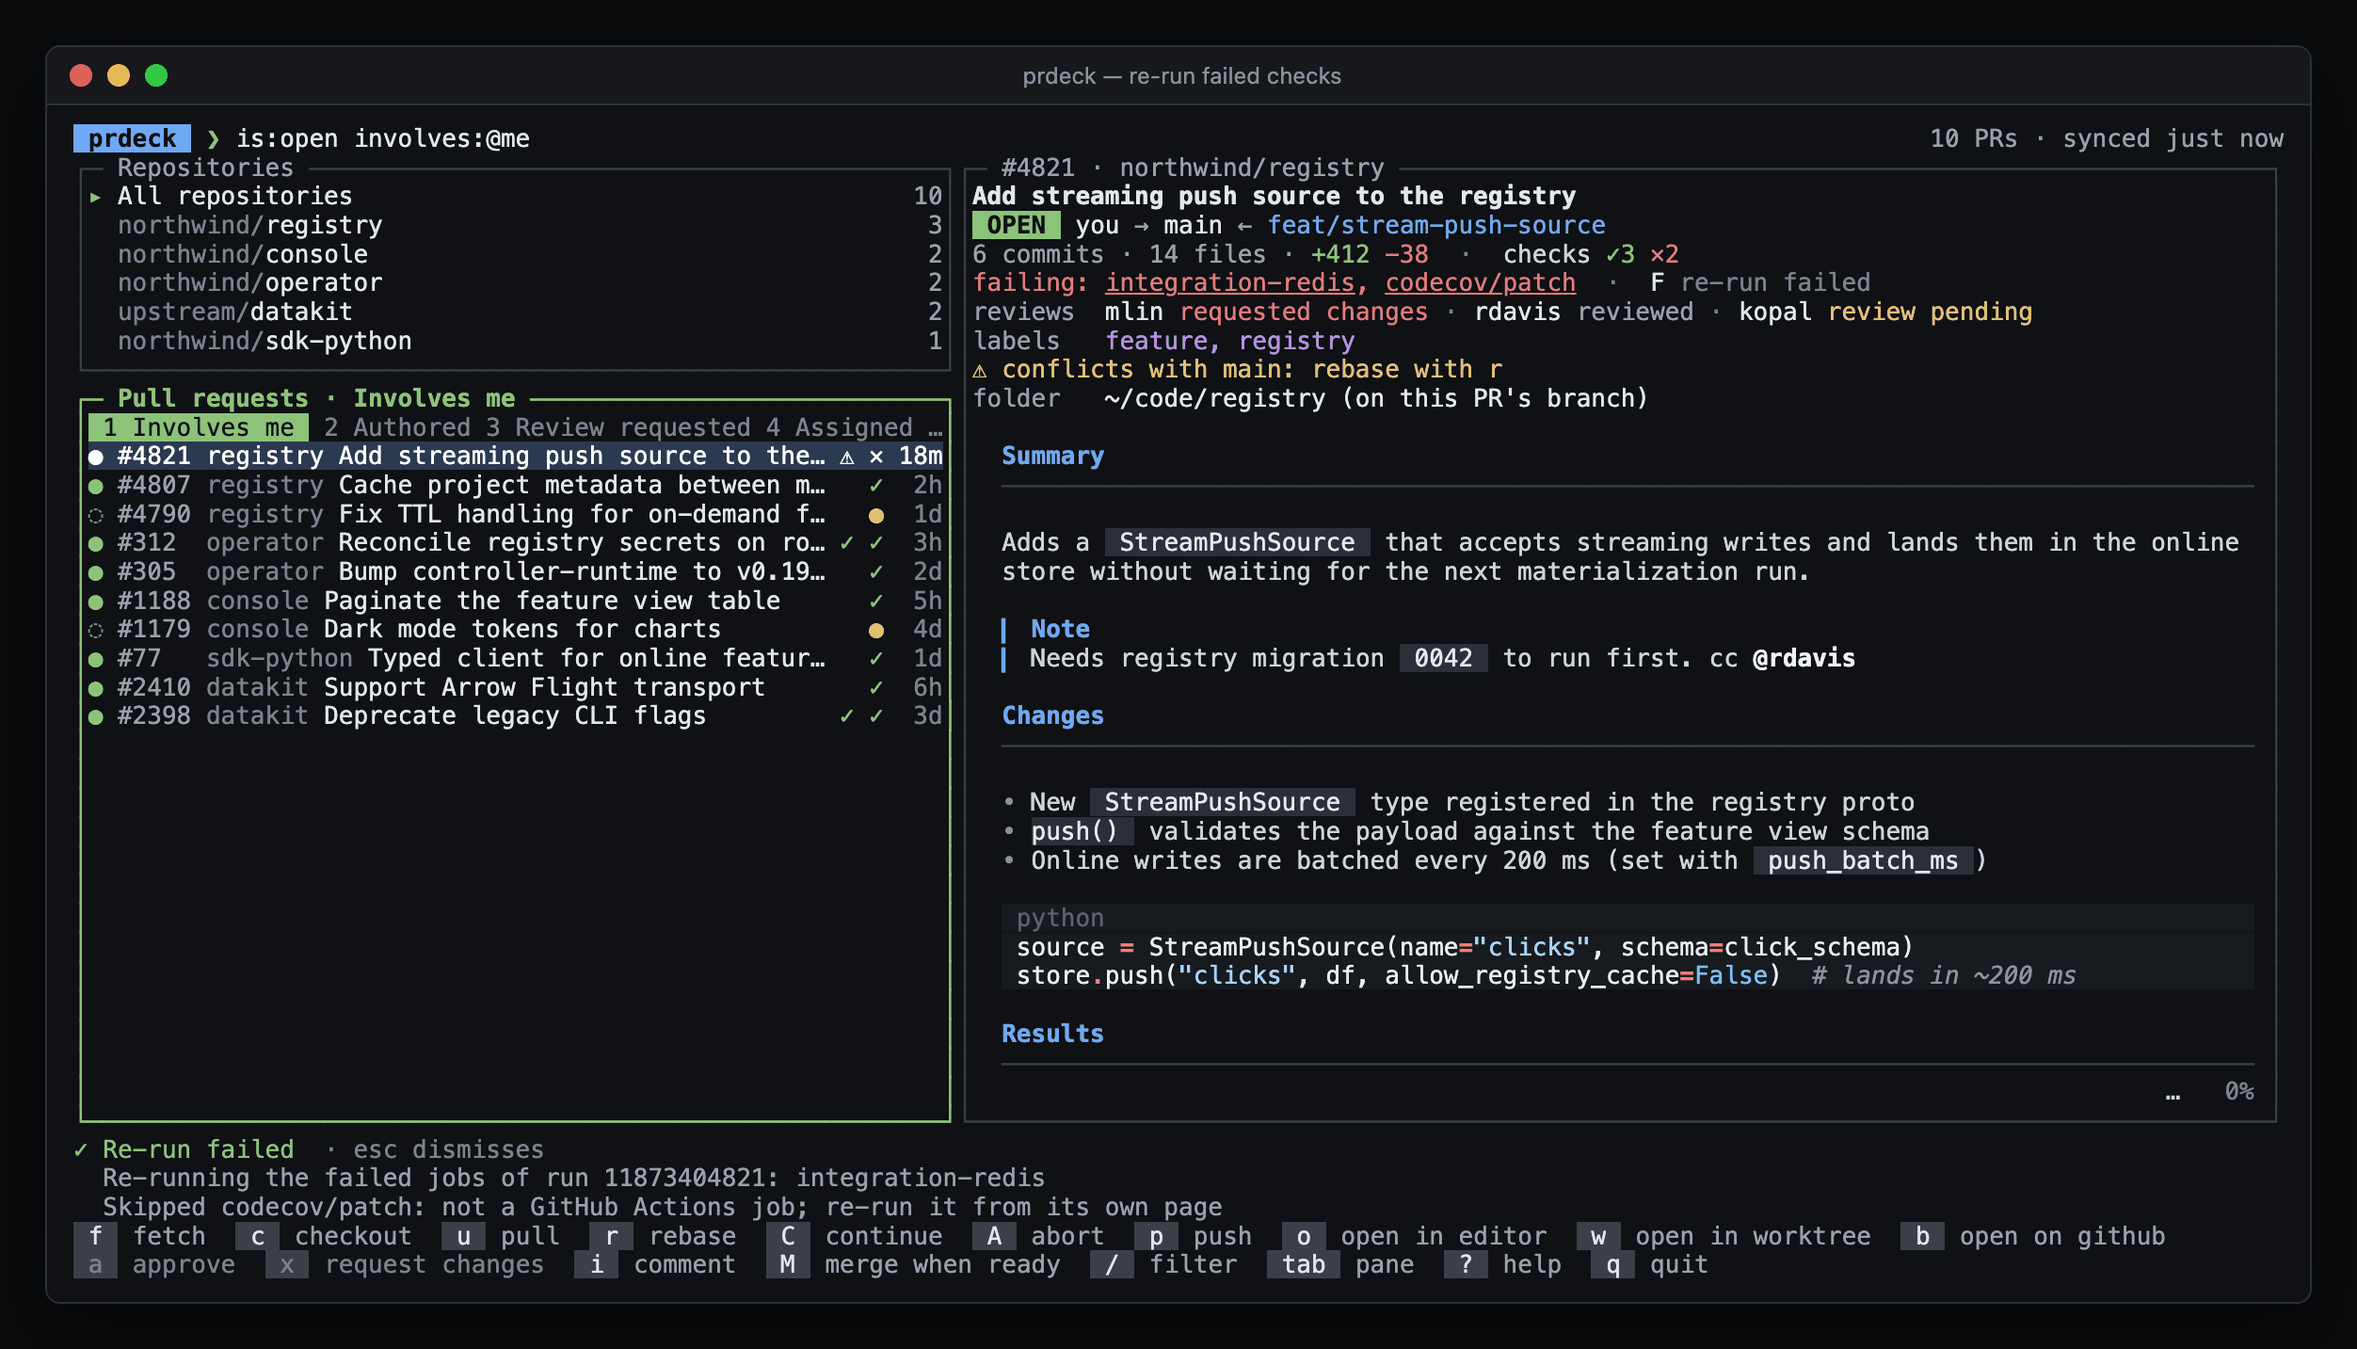
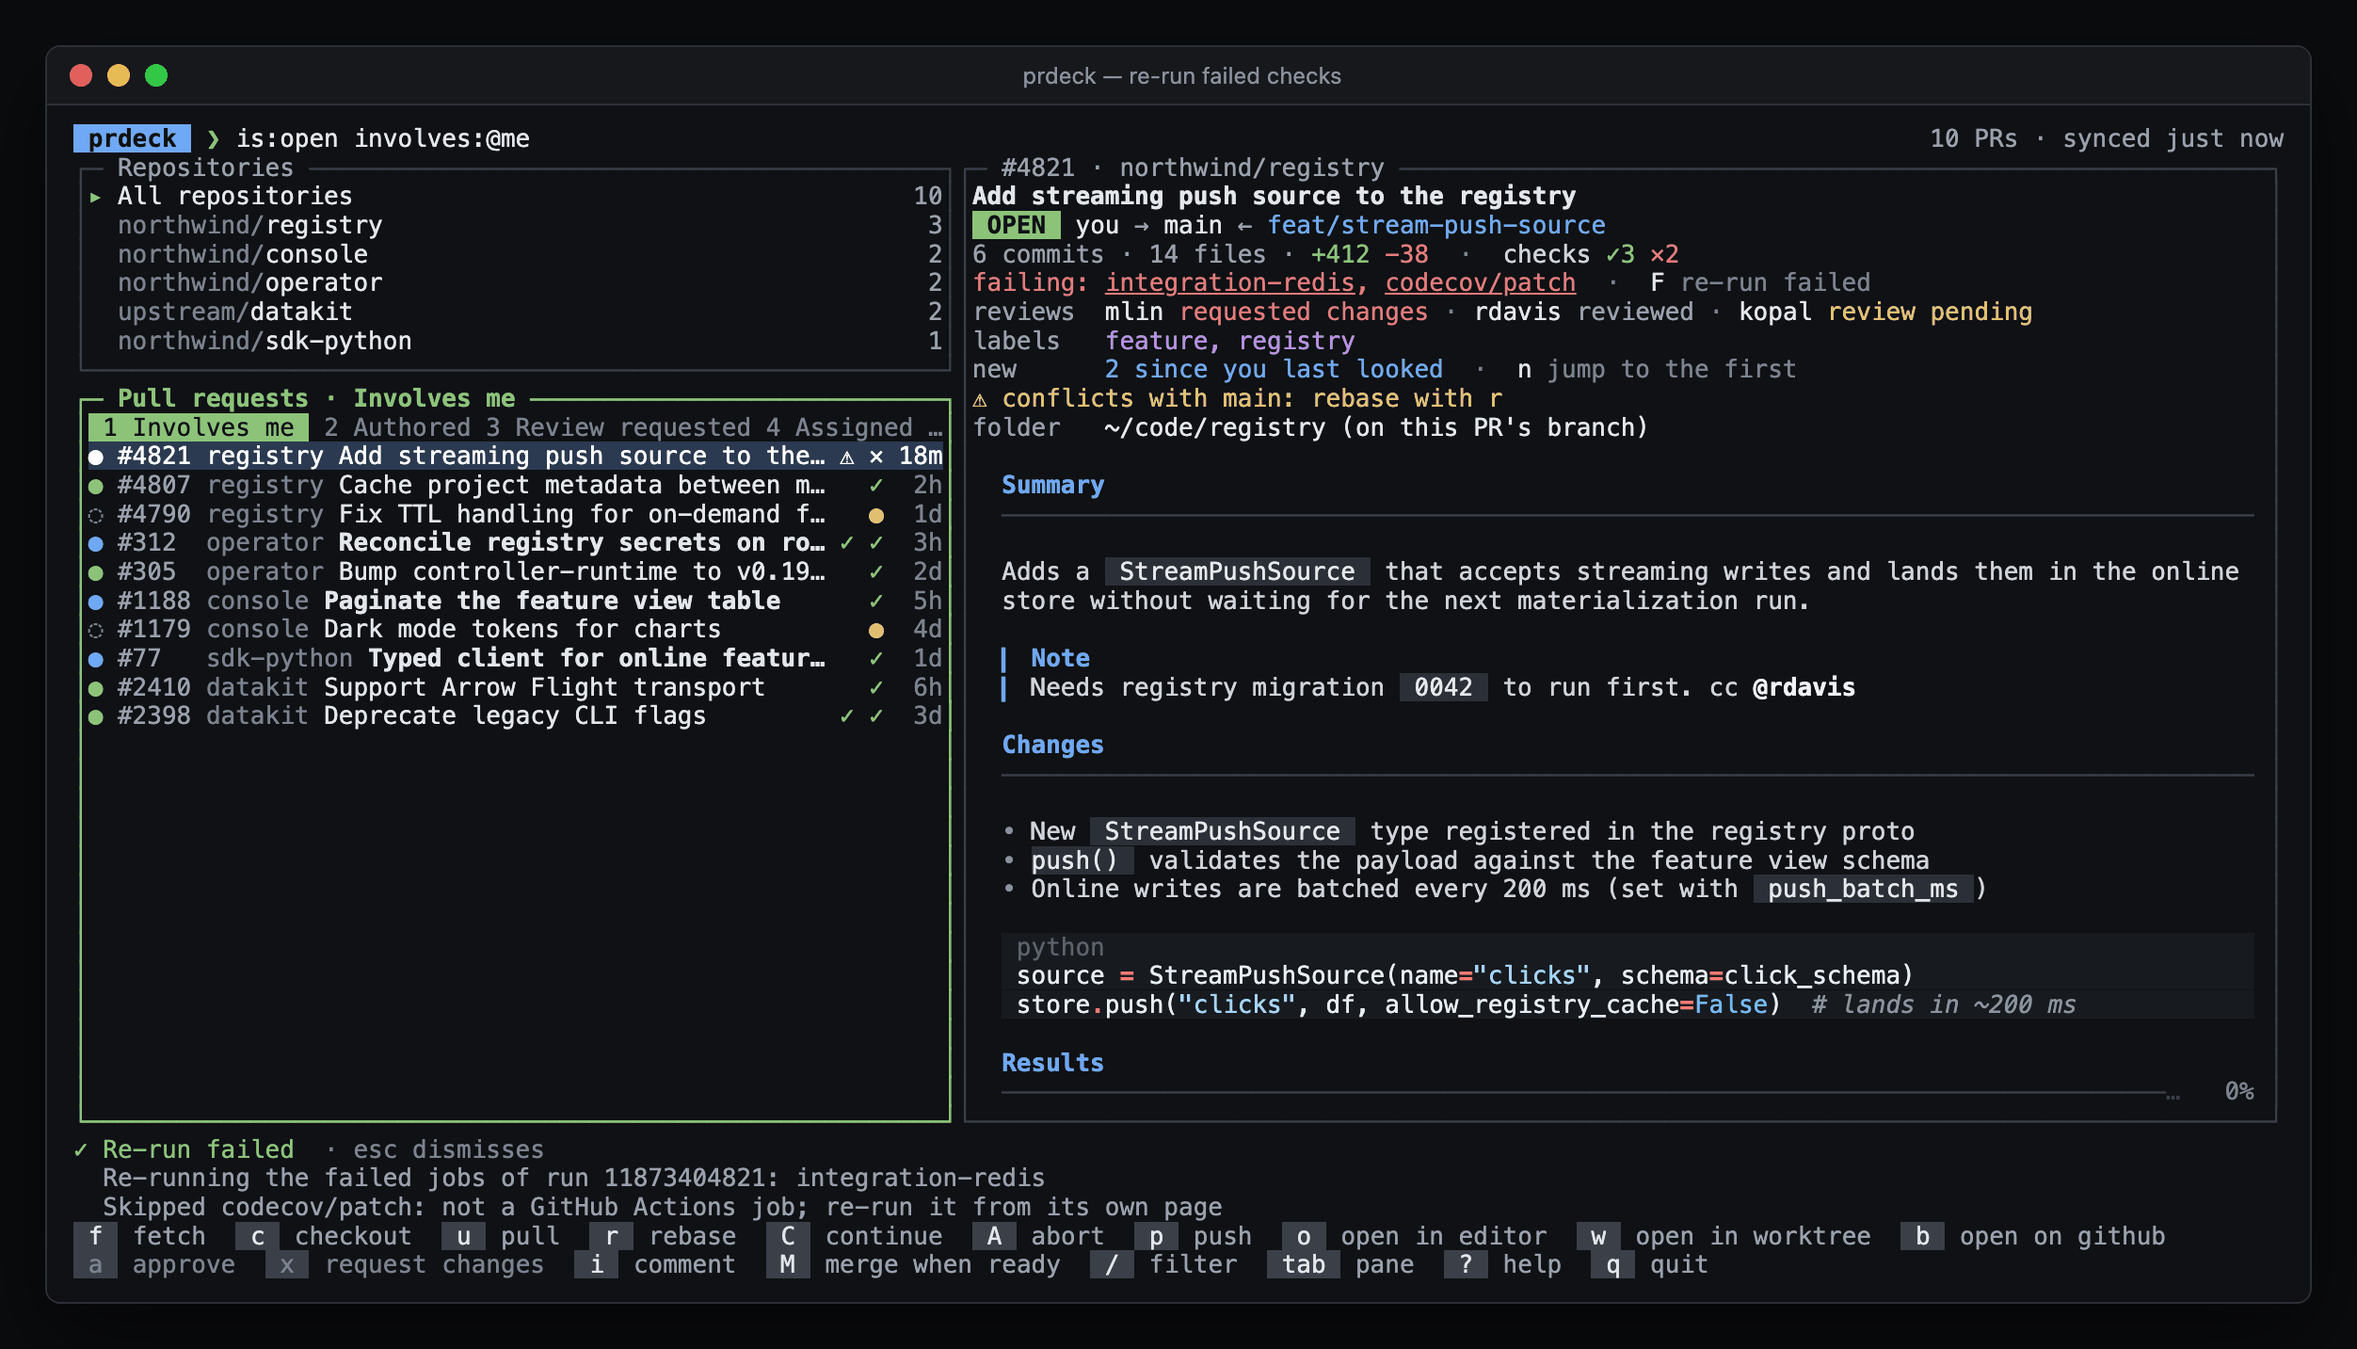
Document unread PRs and what is new since you last looked
- README: the dot and bold title, the new tags and n in both apps, the
  shared cache, the first-run rule, and the new snapshot state.
- ADR 0018: seen marks in the cache in GitHub's time, opening is showing,
  the first-run baseline and 30-day floor, how your own actions and two
  apps on one file are handled, and why not GitHub's notifications.
- Screenshots: unread.png from the capture script (which now takes it),
  desktop-unread.png and desktop-new.png; the terminal shots are taken
  again, since the demo list and ? help changed.

diff --git a/README.md b/README.md
@@ -20,8 +20,8 @@ A dashboard for the pull requests you're involved in, in the terminal and on the
 | **Output**: conflicts show right away; fix them, then `C` | **`?` help**: every key and the command it runs |
 | ![Re-run failed](docs/screenshots/rerun.png) | ![Approve](docs/screenshots/approve.png) |
 | **`F` re-run failed**: failing checks link to their logs; only the failed jobs run again | **`a` approve**: shows what it sends, then approves on `enter` |
-| ![Merge when ready](docs/screenshots/merge.png) | |
-| **`M` merge when ready**: auto-merge on, so GitHub merges once checks and reviews pass | |
+| ![Merge when ready](docs/screenshots/merge.png) | ![New since you last looked](docs/screenshots/unread.png) |
+| **`M` merge when ready**: auto-merge on, so GitHub merges once checks and reviews pass | **`n` what's new**: unread PRs are blue and bold; new comments are tagged, `n` jumps to the first |
 
 Screenshots use sample data from `prdeck demo`. Regenerate them with `scripts/screenshots/capture.sh`.
 
@@ -51,6 +51,7 @@ prdeck config init         # write a starter config
 | `1`–`9` | Switch filter (Involves me, Authored, Review requested, Assigned, Mentions) |
 | `/` | Filter palette: pick a filter or type any qualifier (`label:bug repo:org/x`) |
 | `R` | Refresh now (it also refreshes every 2 minutes) |
+| `n` | Jump to the first comment, review or reply that is new since you last opened the PR |
 | `f` `c` `u` | Fetch, check out the PR's branch, pull |
 | `r` `C` `A` | Rebase on the base branch, continue, abort |
 | `p` | Push with `--force-with-lease` |
@@ -77,6 +78,8 @@ PR descriptions and comments render like on GitHub, inside the pane:
 **Failing checks** are listed under the PR's title, each name a link to its log (hold ⌘ to click with mouse support on). `F` re-runs only the failed jobs of each failed GitHub Actions run, with your gh login; checks from other CI services, such as Codecov, are skipped and named, since they re-run from their own page.
 
 **Review and merge** with your gh login, no clone needed: `a` approves, `x` asks what should change and requests changes, `i` asks for a comment and posts it. `M` (merge when ready) turns on GitHub's auto-merge, so GitHub merges once checks and reviews pass, with the merge method GitHub's own button starts with (your last used one the repo allows). A PR that is ready already is merged at once. A repo that does not allow auto-merge, conflicts, or checks that fail but are not required, are explained instead; when GitHub refuses, its own words are shown in full. The PR view then shows the new review, comment or `auto-merge on`. On your own PRs, Approve and Request changes are dimmed in the key bar.
+
+**What's new since you last looked.** A PR updated since you last opened it has a blue dot and a bold title in the list. Opening it (selecting it is enough) clears that, and the PR view says how many comments, reviews and replies came in since your last visit, each tagged `new`; `n` jumps to the first. Your own comments are never new, and what you do from prdeck does not make your PR unread. Both apps keep this in the same cache file, so a PR opened on the desktop shows as read in the terminal on its next refresh. The first run counts everything listed as seen.
 
 With mouse support on, hold Option (or Shift, depending on your terminal) to select text. Set `ui.mouse: false` to turn it off.
 
@@ -116,6 +119,8 @@ The same PRs and commands in a native window, built with [GPUI](https://www.gpui
 | **Checks**: click one to open its log | **Re-run failed**: only the failed jobs, with your gh login |
 | ![Merge when ready](docs/screenshots/desktop-merge.png) | ![Auto-merge on](docs/screenshots/desktop-automerge.png) |
 | **Merge when ready** next to Approve; asks first | **Auto-merge on**: GitHub merges once checks and reviews pass |
+| ![Unread PRs and what is new](docs/screenshots/desktop-unread.png) | ![Jump to first new](docs/screenshots/desktop-new.png) |
+| **Unread**: a dot on PRs that changed since you last looked; the conversation says how many are new | **Jump to first new** (or `n`): what came in since is tagged New |
 
 - **PR text like github.com**: images (your GitHub login is used for GitHub-hosted ones), `<img width>`, `<details>`, tables of screenshots side by side, syntax-highlighted code, `[!NOTE]`/`[!WARNING]` boxes, emoji and linked @mentions. Text is selectable.
 - **Comment and review**: a reply box at the end of every conversation (Write / Preview) with Comment, Approve and Request changes, and Reply on each code thread. Drafts are kept per PR. `⌘⇧C`, the Review button, or the `a` `x` `i` keys jump there; `⌘↵` comments.
@@ -123,6 +128,7 @@ The same PRs and commands in a native window, built with [GPUI](https://www.gpui
 - **Diffs**: click a commit to see what it changed (Previous / Next steps through them), or open Files changed for every file's diff with line numbers. Big PRs open the first ~1,500 lines and keep the rest one click away.
 - **Inline review**: click a line number in Files changed to comment on that line, or drag across line numbers (or Shift-click) to comment on several. The comment box can copy the selected lines or turn them into a suggested change. Add a single comment, or start a review: comments stay pending under their lines until you Submit review, Approve or Request changes, and go to GitHub together. Existing review threads show at their lines with Reply.
 - **Checks**: every check opens its log in the browser; the side panel lists the first few failing ones. When CI failed, **Re-run failed** (or `F`) re-runs only the failed GitHub Actions jobs.
+- **What's new**: a blue dot and a bold title on PRs updated since you last opened them, in either app. In the conversation, comments, reviews and replies from others since your last visit are tagged New, and a bar at the top counts them, with Jump to first new (or `n`).
 - **Profile photos** from GitHub next to every author and reviewer.
 - **Resizable panes**: drag the edges of the sidebar, the repositories list and the PR's side panel. Sizes are remembered.
 - **First-run setup** signs you in with GitHub's device code in the browser (via the GitHub CLI, so PR Deck never stores a token), finds the folders that hold your clones, and picks your editor. It shows on first launch or when signed out, and from PR Deck → Set Up….
@@ -148,12 +154,13 @@ cargo run --release             # your PRs (uses your gh login)
 | `⌘O` / `⌘⇧O` | open in editor / on GitHub |
 | `⌘⇧C` / `⌘↵` | write a comment or review / post the comment |
 | `a` `x` `i` / `M` | open the reply box / merge when ready |
+| `n` | jump to the first new comment, review or reply |
 | `esc` | back from a commit to the list |
 | `⌘B` | hide the sidebar |
 | `⌘,` | edit the config |
 | your command keys | run that command; `esc` closes the command bar |
 
-Screenshots: `cargo run --features snapshot -- --demo --snapshot out.png [--state commits|checks|checks,rerun|compose,merge|compose,merge,confirm|goto|palette|changes|noclone]`; add `--signed-out --setup --state setup-signin` for setup.
+Screenshots: `cargo run --features snapshot -- --demo --snapshot out.png [--state commits|checks|checks,rerun|compose,merge|compose,merge,confirm|new|goto|palette|changes|noclone]`; add `--signed-out --setup --state setup-signin` for setup.
 
 ## Configuration
 

diff --git a/docs/adr/0018-unread-since-you-last-looked.md b/docs/adr/0018-unread-since-you-last-looked.md
@@ -1,0 +1,37 @@
+# 0018. Unread PRs and new comments since you last looked
+
+- Status: accepted (updates the "read-only" note in [0005](0005-show-saved-data-then-refresh.md))
+- Date: 2026-11-04
+
+## Context
+
+The PR list is sorted by update time, so it says that something changed on a PR, not whether you have seen it. Opening a long PR again meant reading the whole conversation to find the two comments that came in since.
+
+## Decision
+
+- **Seen marks in the cache.** `cache.json` ([0005](0005-show-saved-data-then-refresh.md)) keeps, for each PR key, when you last opened it. The time is GitHub's: the PR's update time, or the newest comment, review or reply the detail shows if that is later. A wrong local clock cannot make a PR look unread, and nothing on screen stays new after you have seen it.
+- **Opening is showing.** `CachedDetail` and `Detail` are what both apps call to show a PR, so they mark it seen and return the detail with `lastSeen` (the visit before) and `new` on each comment, review and reply from someone else after it. Your own are never new. Selecting a PR is enough, in both apps, since both show the selected PR at once.
+- **Unread** is a PR whose update time is after its mark. Lists from `search` and `cachedSearch` come back with `unread` set; the core computes it on a copy, so saved lists are unchanged.
+- **First run.** The cache records when it began keeping track (`seenSince`); anything updated before then counts as seen, so upgrading does not light up every PR. Nothing older than 30 days is unread, so marks that old are dropped like old details.
+- **Your own actions.** Both apps load a PR again after a comment, review or merge when ready, and load the PR on screen again when a refresh finds it changed (the terminal whenever it is out of date, the desktop when the list says it is unread, which covers a push). That marks it seen as of your change, so prdeck never makes your PR unread. The apps also clear the dot themselves when a detail arrives, in case the list refreshes first.
+- **Two apps, one file.** The terminal and desktop apps each hold the cache in memory and write the whole file. Each save now reads the marks in the file first and keeps the newer of each, so a PR opened in one app shows as read in the other after its next refresh.
+- **Terminal.** An unread PR's ● or ◌ turns blue and its title bold. In the PR view, new items get a `new` tag, a line under the reviews counts them, and `n` scrolls to the first. `n` is checked after the config commands, so a command someone already put on `n` keeps working; it is not added to the reserved keys.
+- **Desktop.** A blue dot in the list's left margin and a brighter title; New tags in the conversation; a bar at its top with the count and Jump to first new, also on `n` from any section. The first new item scrolls itself into place when it is laid out, so the jump works even when the conversation was not showing.
+- **Protocol.** Fields only, all optional ([0009](0009-desktop-uses-the-core-over-prdeck-serve.md)): `unread` on a PR, `lastSeen` on a detail, `new` on events and replies. No new method.
+- The demo has four PRs that changed since you last looked, with a new reply in a thread and a new comment on #4821.
+
+## Consequences
+
+- The list shows at a glance which PRs need reading again, and a PR opens with what is new marked.
+- Moving through the list with `j`/`k` marks the PRs you pass as seen, as in a mail app's preview pane. In the terminal, the tags stay on a PR you already opened until it changes again or the app restarts; on the desktop they go when you open it again.
+- Pushes and label changes move a PR's update time, so they make it unread too, but only comments, reviews and replies are tagged. CI finishing does not change the update time and does not make a PR unread.
+- The cache now holds local state, not just copies of GitHub. Losing it only loses dots; a JSON file is still enough.
+- Two apps saving at the same moment can lose a mark, which shows that PR as unread again; never the other way round.
+- Marks are per Mac and separate from GitHub's notifications.
+
+## Alternatives considered
+
+- **GitHub's notifications** (read state per thread). Shared with github.com and other devices, but only for PRs you are subscribed to, another REST call per refresh, and opening a PR in PR Deck would have to mark it read on GitHub, a write you did not ask for.
+- **The local clock for marks.** Simpler, but with a clock behind GitHub's, your own comment would look newer than your visit.
+- **Mark seen after a short delay**, so passing over a PR with `j`/`k` does not count. More state for a small gain; the detail is already on screen the moment a PR is selected.
+- **A separate `markSeen` method.** Both apps would have to call it at the right moment; marking where the detail is shown keeps that rule in the core.

diff --git a/docs/adr/README.md b/docs/adr/README.md
@@ -30,6 +30,8 @@ This folder holds the architecture decision records (ADRs): one short file per d
 | Checks open their logs; Re-run failed when CI failed | Only the failed GitHub Actions jobs run again |
 | ![Merge when ready](../screenshots/desktop-merge.png) | ![Auto-merge on](../screenshots/desktop-automerge.png) |
 | Merge when ready, next to the review buttons, asks first | Auto-merge on: GitHub merges once checks and reviews pass |
+| ![Unread PRs and what is new](../screenshots/desktop-unread.png) | ![Jump to first new](../screenshots/desktop-new.png) |
+| Unread PRs have a dot; the conversation counts what is new | Jump to first new: what came in since your last visit is tagged |
 
 All screenshots use the sample data from `prdeck demo` / `--demo`.
 
@@ -95,7 +97,7 @@ sequenceDiagram
 | `cmd/prdeck` | The binary: the terminal app, `list`, `demo`, `config`, and `serve` for the desktop app. |
 | `internal/config` | Loads `~/.config/prdeck/config.yaml`, merges it over the built-in defaults, and edits it in place (keeping comments). |
 | `internal/github` | GitHub GraphQL with the gh login: search, PR detail, the viewer, image downloads. |
-| `internal/cache` | The last PR lists and PR details as JSON, so both apps open instantly. |
+| `internal/cache` | The last PR lists and PR details as JSON, so both apps open instantly, and when you last opened each PR. |
 | `internal/repos` | Finds clones on disk, reads their branch and uncommitted changes, plans worktrees. |
 | `internal/runner` | Fills `{placeholders}` (shell-quoted) and runs commands with `/bin/sh -c`. |
 | `internal/core` | `Service`: ties the above together; turns a command into a `Plan` and runs it. |
@@ -125,5 +127,6 @@ sequenceDiagram
 | [0015](0015-comments-on-several-lines.md) | Comments on several lines |
 | [0016](0016-checks-link-to-their-logs-and-re-run.md) | Checks link to their logs, and Re-run failed |
 | [0017](0017-review-and-merge-commands.md) | Approve, Request changes, Comment and Merge when ready as commands |
+| [0018](0018-unread-since-you-last-looked.md) | Unread PRs and new comments since you last looked |
 
 To add a record, copy the shape of an existing one (Status, Context, Decision, Consequences, Alternatives) and give it the next number. A record is not rewritten when things change; a new one supersedes it.
